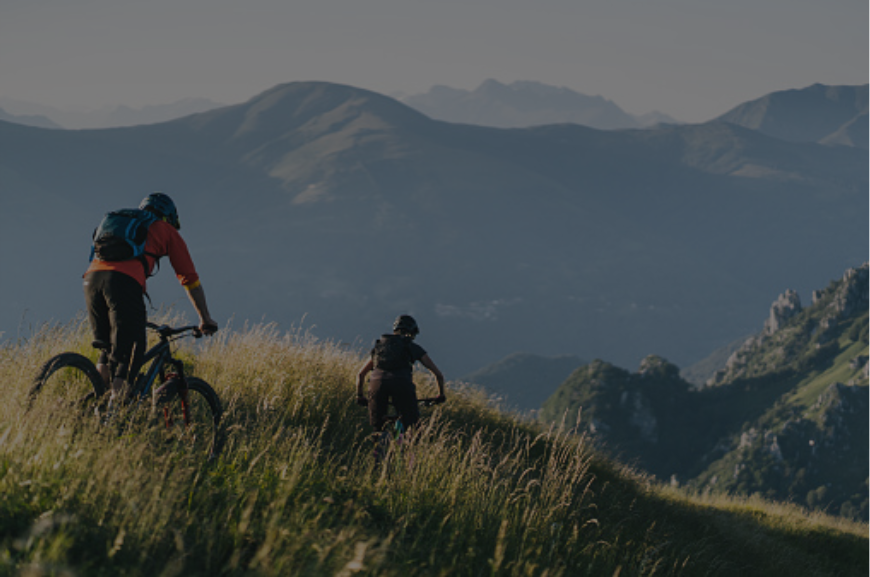
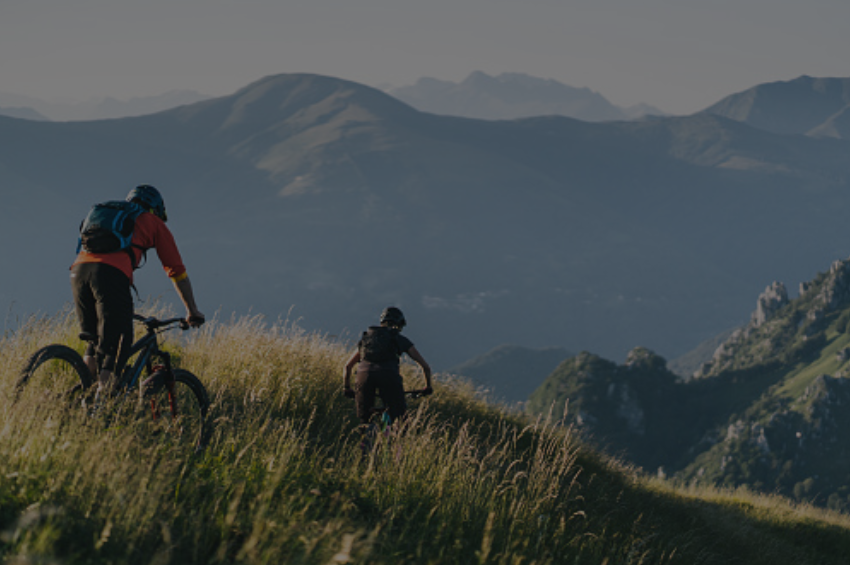
card

diff --git a/app/assets/stylesheets/_banner.scss b/app/assets/stylesheets/_banner.scss
@@ -15,7 +15,7 @@
 }
 
 .photo{
-margin-right: 460px;
+margin-right: 490px;
 }
 
 h2 {
@@ -27,11 +27,10 @@ h2 {
 }
 
 p {
-  align-items: justify;
-  text-align: justify;
+  text-align: center;
   margin-top: 51px;
   margin-bottom: 51px;
-  font-family: 'arial', sans-serif;
+  font-family: Georgia, serif;
   font-weight: bold;
   color: grey ;
   max-width: 405px;
@@ -89,4 +88,10 @@ p {
 .btn-primary:hover{
       background-color: #4A5376;
 opacity: 0.7;
+ }
+
+ h6{
+color:#191A19;
+font-family: "Gill Sans", sans-serif;
+text-align: center;
  }

diff --git a/app/javascript/components/banner.js b/app/javascript/components/banner.js
@@ -5,8 +5,8 @@ const loadDynamicBannerText = () => {
   const banner = document.querySelector('.banner');
   if (banner){
     new Typed('#banner-typed-text', {
-      strings: ["Hello,I'm Math",],
-      typeSpeed: 20,
+      strings: ["Hello, I'm Math",],
+      typeSpeed: 90,
       loop: true
     });
   }

diff --git a/app/assets/stylesheets/_cart.scss b/app/assets/stylesheets/_cart.scss
@@ -59,3 +59,14 @@
     display: flex;
     flex-wrap: wrap;
 }
+
+.btn-success{
+  background-color:#EEF2FF;
+  color: #4A5376;
+  box-shadow: 0px 0px 4px rgba(74, 83, 118, .4);
+  border: none;
+}
+
+.btn-success:hover{
+  background-color: #4A5376;
+}
